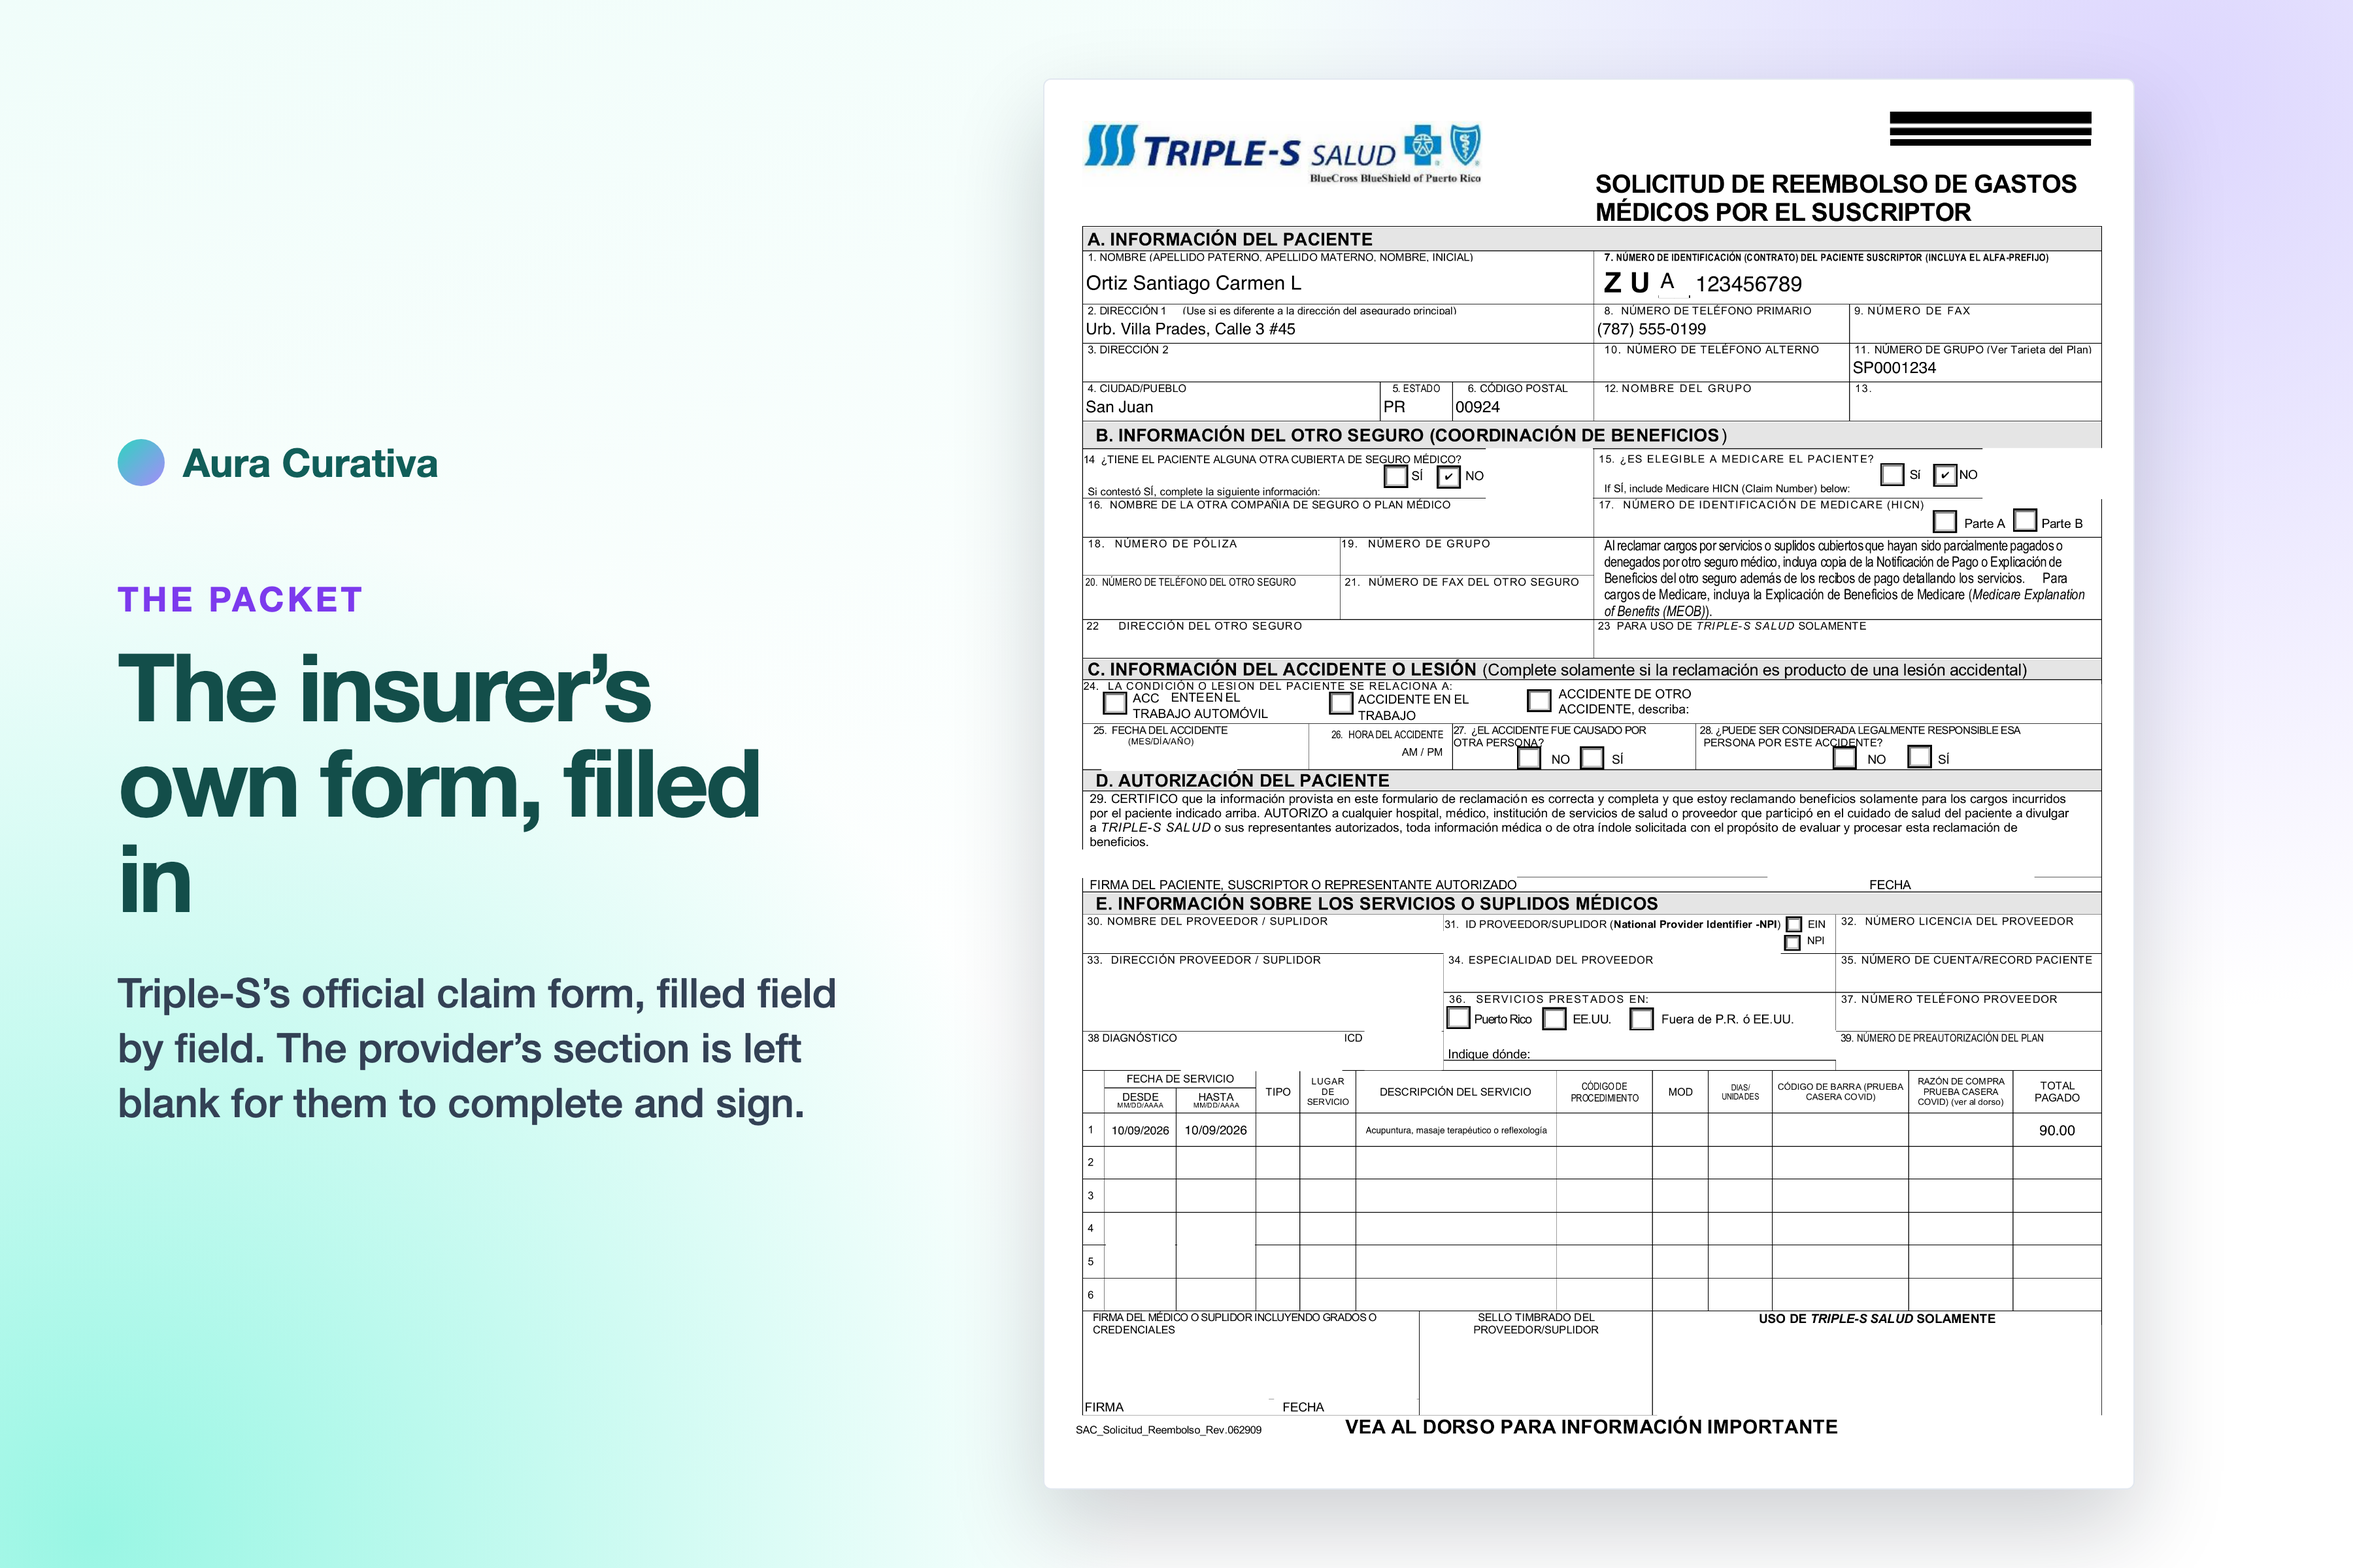
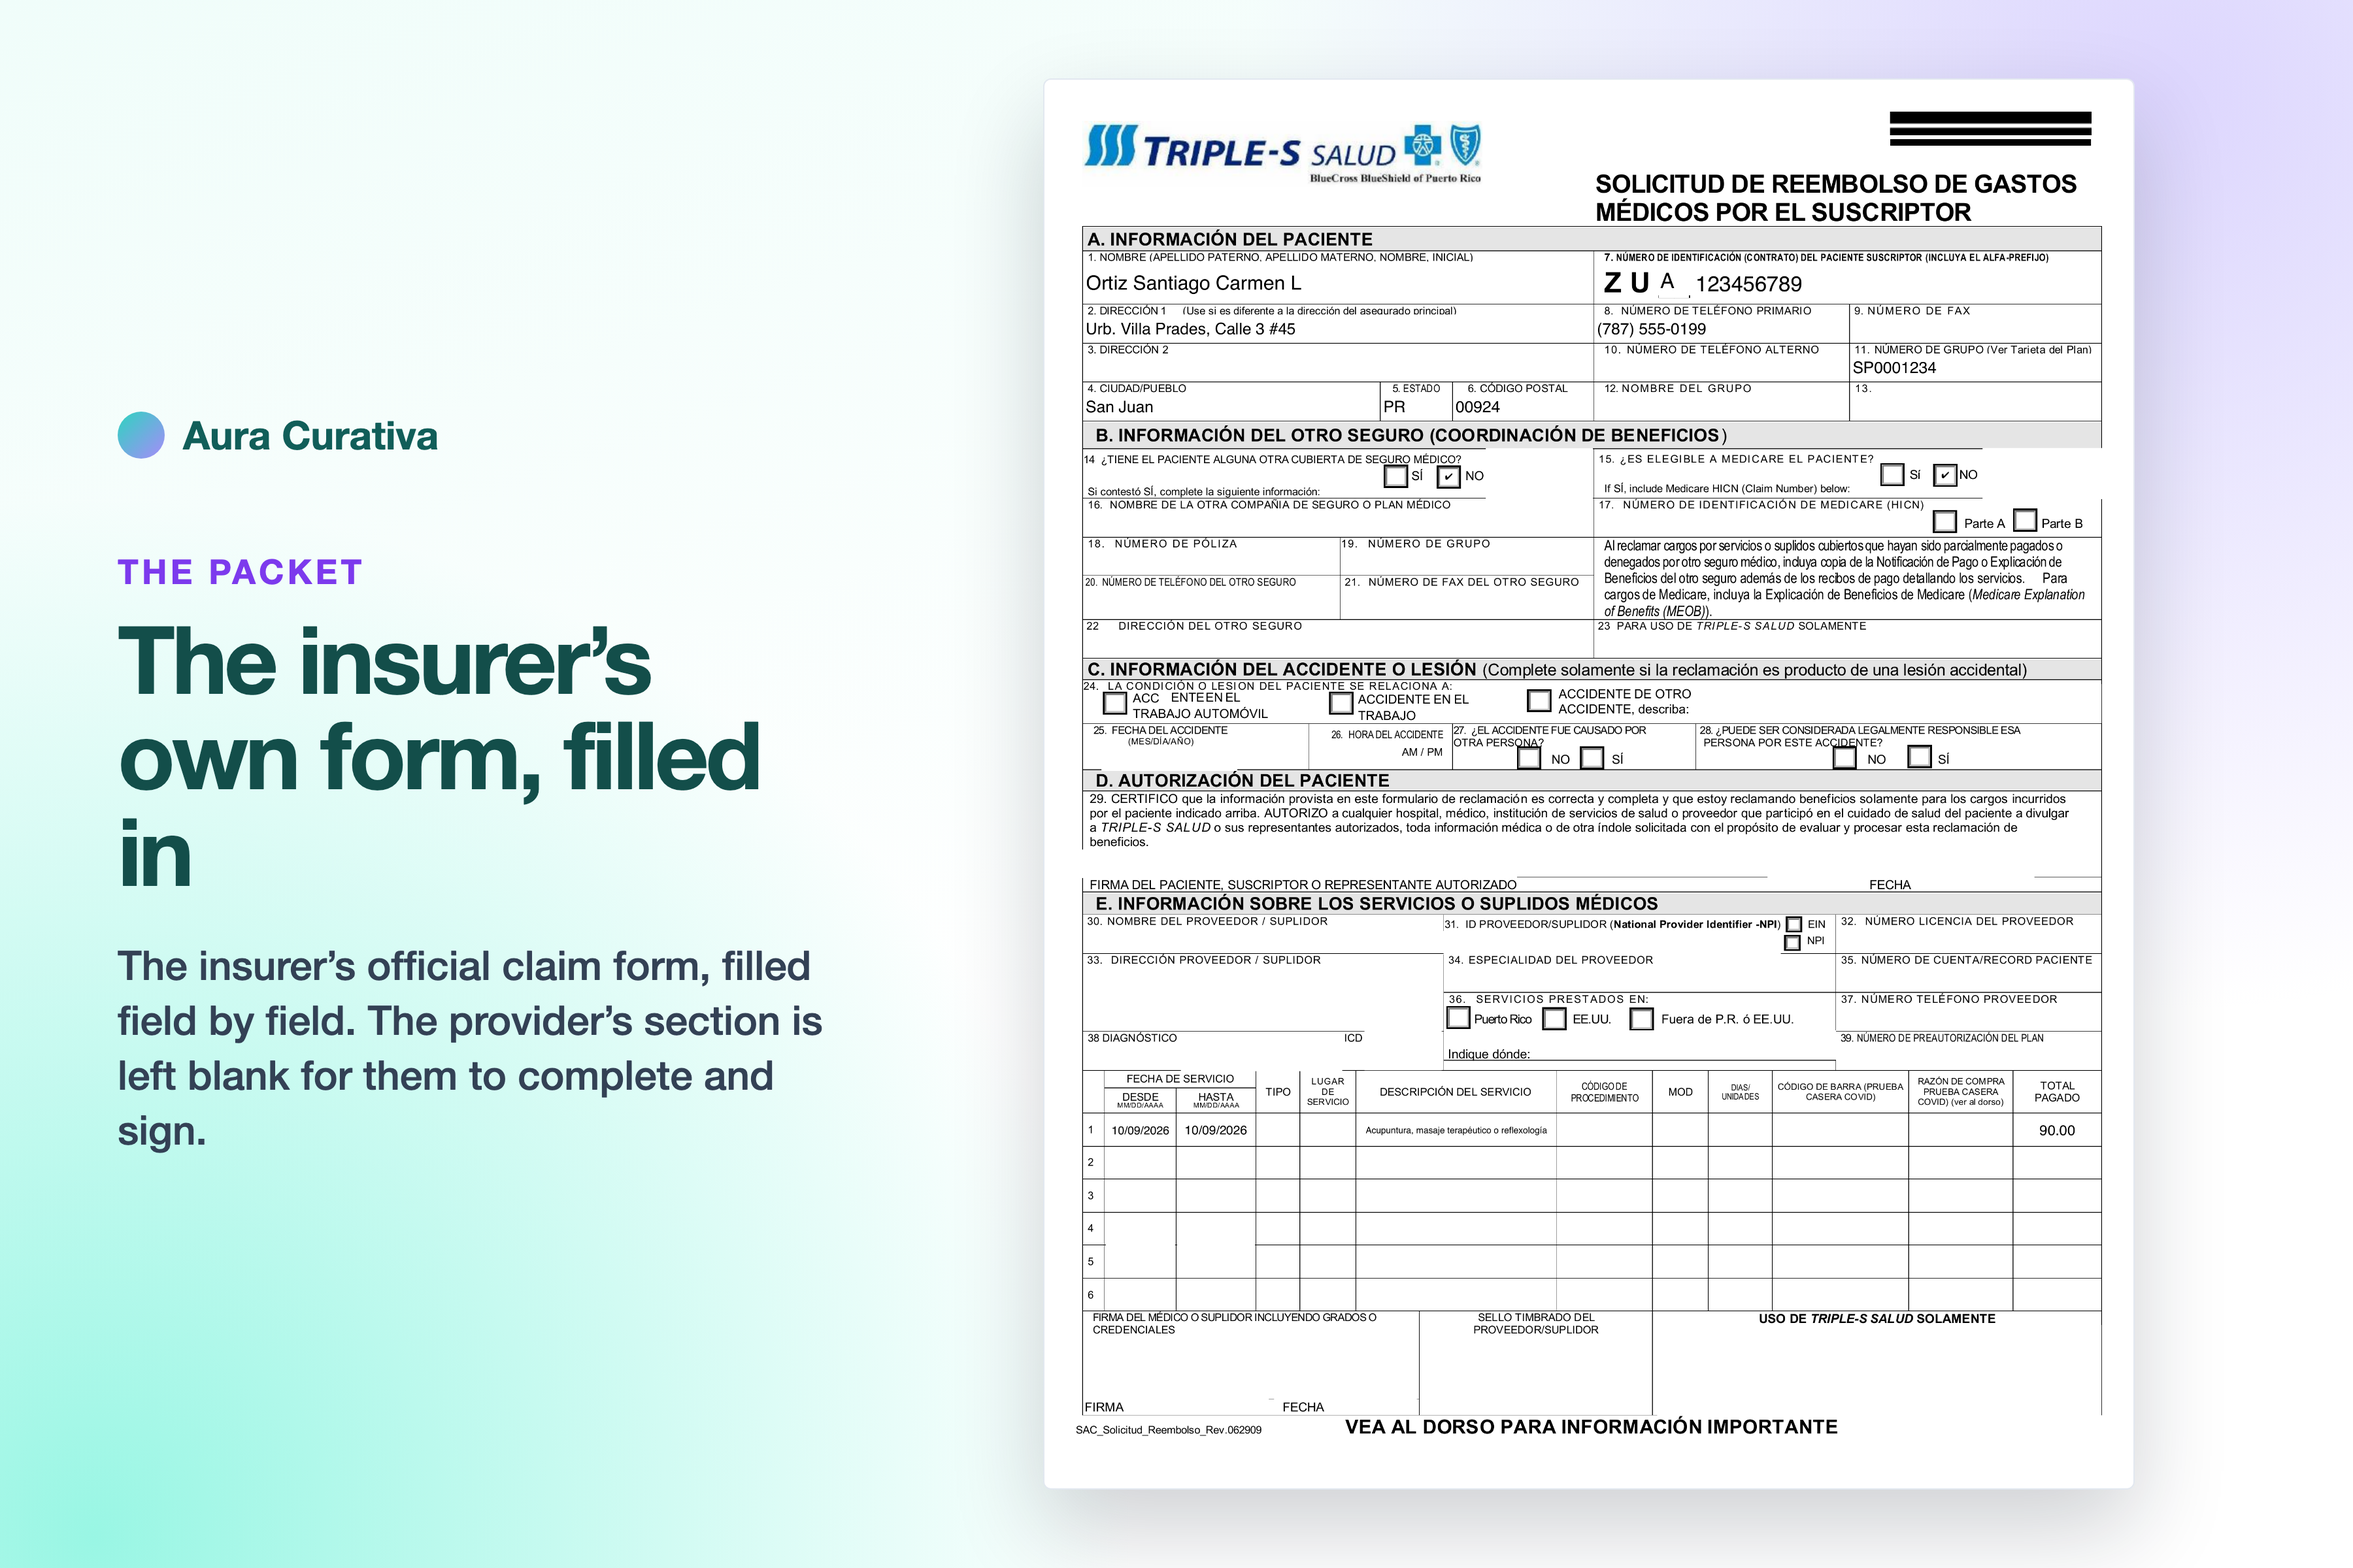
Name the generated PDFs Aura Curativa; drop plan names from the Devpost image text

Changed region(s): [[0.0311, 0.3438, 0.3733, 0.75], [0.0311, 0.25, 0.1867, 0.3125]]

diff --git a/src/lib/pdf/patient-packet.ts b/src/lib/pdf/patient-packet.ts
@@ -59,7 +59,7 @@ function drawCover(doc: PDFDocument, f: Fonts, i: PatientPacketInput) {
 	const page = doc.addPage([612, 792]);
 	const insurerName = i.insurer === 'triple-s' ? TRIPLE_S.name : FIRST_MEDICAL.name;
 	let y = 730;
-	page.drawText('Healing Aura', { x: 50, y, size: 22, font: f.bold });
+	page.drawText('Aura Curativa', { x: 50, y, size: 22, font: f.bold });
 	y -= 22;
 	page.drawText(winAnsi(`Paquete de reembolso — ${insurerName}`), { x: 50, y, size: 13, font: f.regular, color: GRAY });
 	y -= 34;
@@ -102,7 +102,7 @@ function drawCover(doc: PDFDocument, f: Fonts, i: PatientPacketInput) {
 		480
 	);
 	page.drawText(
-		winAnsi('Generado en su dispositivo por Healing Aura. Ningún dato se guardó en un servidor. No es asesoría legal ni de seguros.'),
+		winAnsi('Generado en su dispositivo por Aura Curativa. Ningún dato se guardó en un servidor. No es asesoría legal ni de seguros.'),
 		{ x: 50, y: 48, size: 8.5, font: f.regular, color: GRAY }
 	);
 }
@@ -191,7 +191,7 @@ export async function buildPatientPacket(
 ): Promise<Uint8Array> {
 	const out = await PDFDocument.create();
 	out.setTitle('Solicitud de reembolso');
-	out.setProducer('Healing Aura');
+	out.setProducer('Aura Curativa');
 	const fonts: Fonts = {
 		regular: await out.embedFont(StandardFonts.Helvetica),
 		bold: await out.embedFont(StandardFonts.HelveticaBold)
@@ -238,7 +238,7 @@ export async function buildPatientPacket(
 export async function buildStepsPdf(i: PatientPacketInput): Promise<Uint8Array> {
 	const out = await PDFDocument.create();
 	out.setTitle('Próximos pasos');
-	out.setProducer('Healing Aura');
+	out.setProducer('Aura Curativa');
 	drawCover(out, { regular: await out.embedFont(StandardFonts.Helvetica), bold: await out.embedFont(StandardFonts.HelveticaBold) }, i);
 	return out.save();
 }

diff --git a/src/lib/pdf/packet.ts b/src/lib/pdf/packet.ts
@@ -46,7 +46,7 @@ function drawCover(doc: PDFDocument, f: Fonts, patient: Patient, visit: Visit, o
 	const route = routeById(visit.route);
 	const plan = planById(patient.plan);
 	let y = 730;
-	text(page, 'Healing Aura', 50, y, f.bold, 22);
+	text(page, 'Aura Curativa', 50, y, f.bold, 22);
 	y -= 22;
 	text(page, 'Paquete de reembolso — Triple-S Salud', 50, y, f.regular, 13, GRAY);
 	y -= 34;
@@ -108,7 +108,7 @@ function drawCover(doc: PDFDocument, f: Fonts, patient: Patient, visit: Visit, o
 
 	text(
 		page,
-		'Generado en su dispositivo por Healing Aura. Ningún dato se guardó en un servidor. No es asesoría legal ni de seguros.',
+		'Generado en su dispositivo por Aura Curativa. Ningún dato se guardó en un servidor. No es asesoría legal ni de seguros.',
 		50,
 		60,
 		f.regular,
@@ -209,7 +209,7 @@ export async function buildTripleSPacket(
 ): Promise<Uint8Array> {
 	const out = await PDFDocument.create();
 	out.setTitle('Solicitud de reembolso Triple-S');
-	out.setProducer('Healing Aura');
+	out.setProducer('Aura Curativa');
 	const fonts: Fonts = {
 		regular: await out.embedFont(StandardFonts.Helvetica),
 		bold: await out.embedFont(StandardFonts.HelveticaBold)
